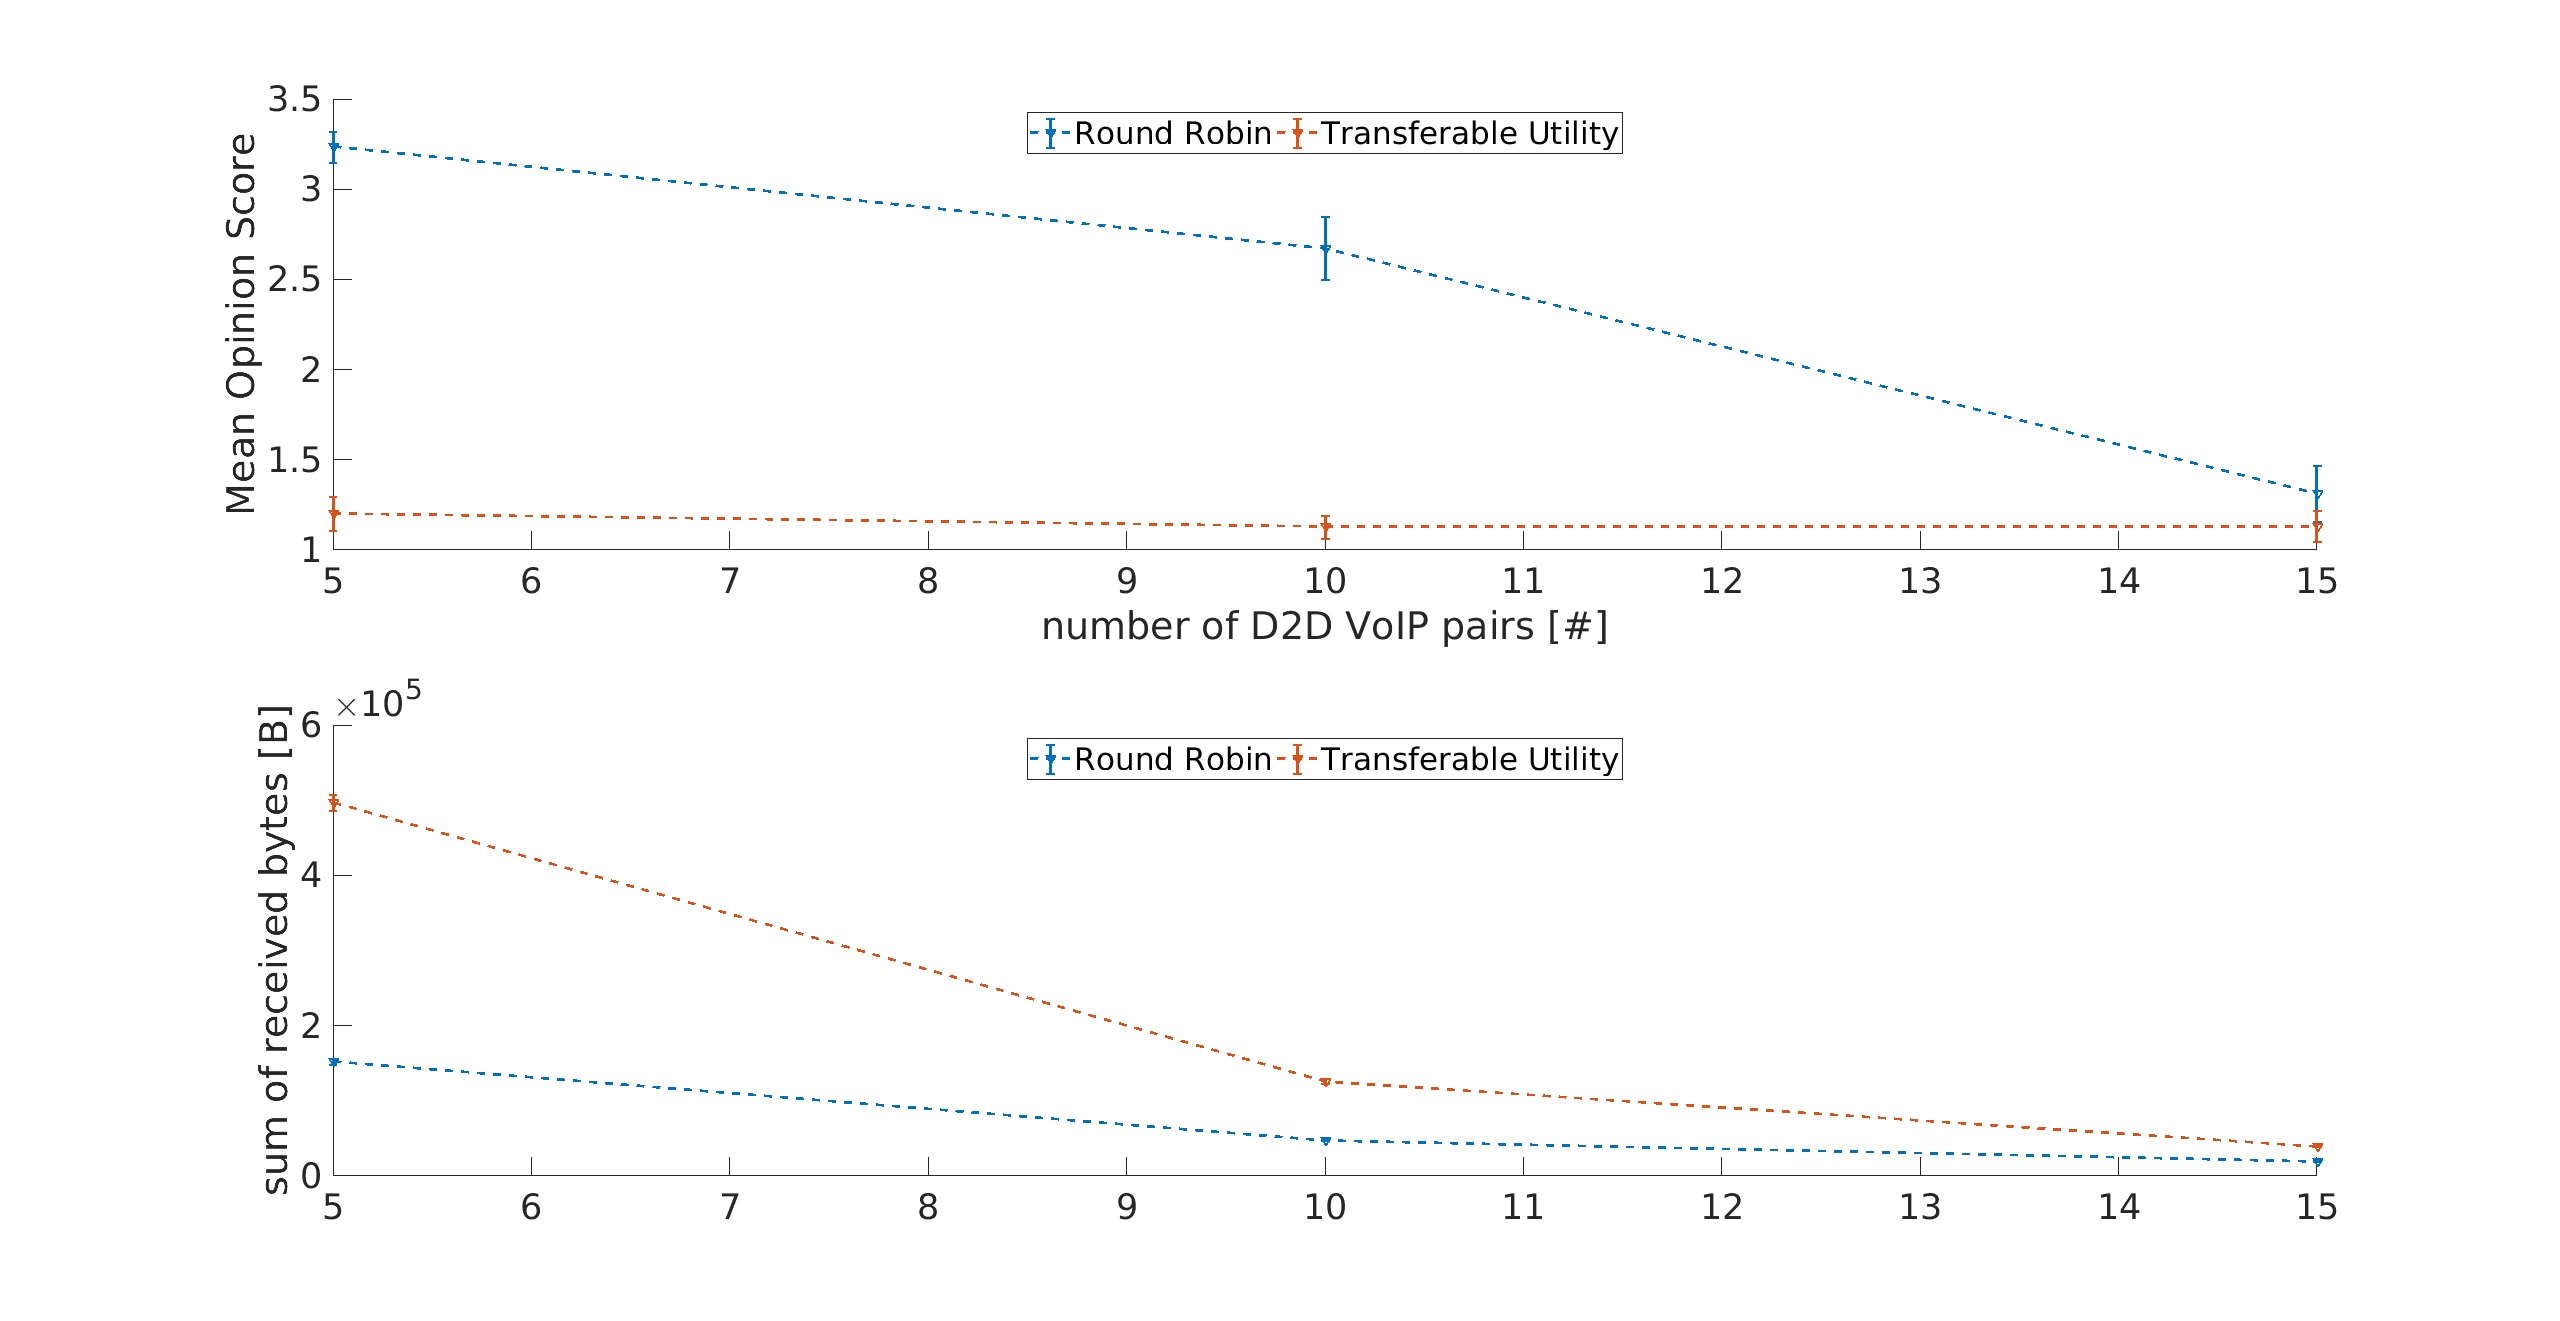
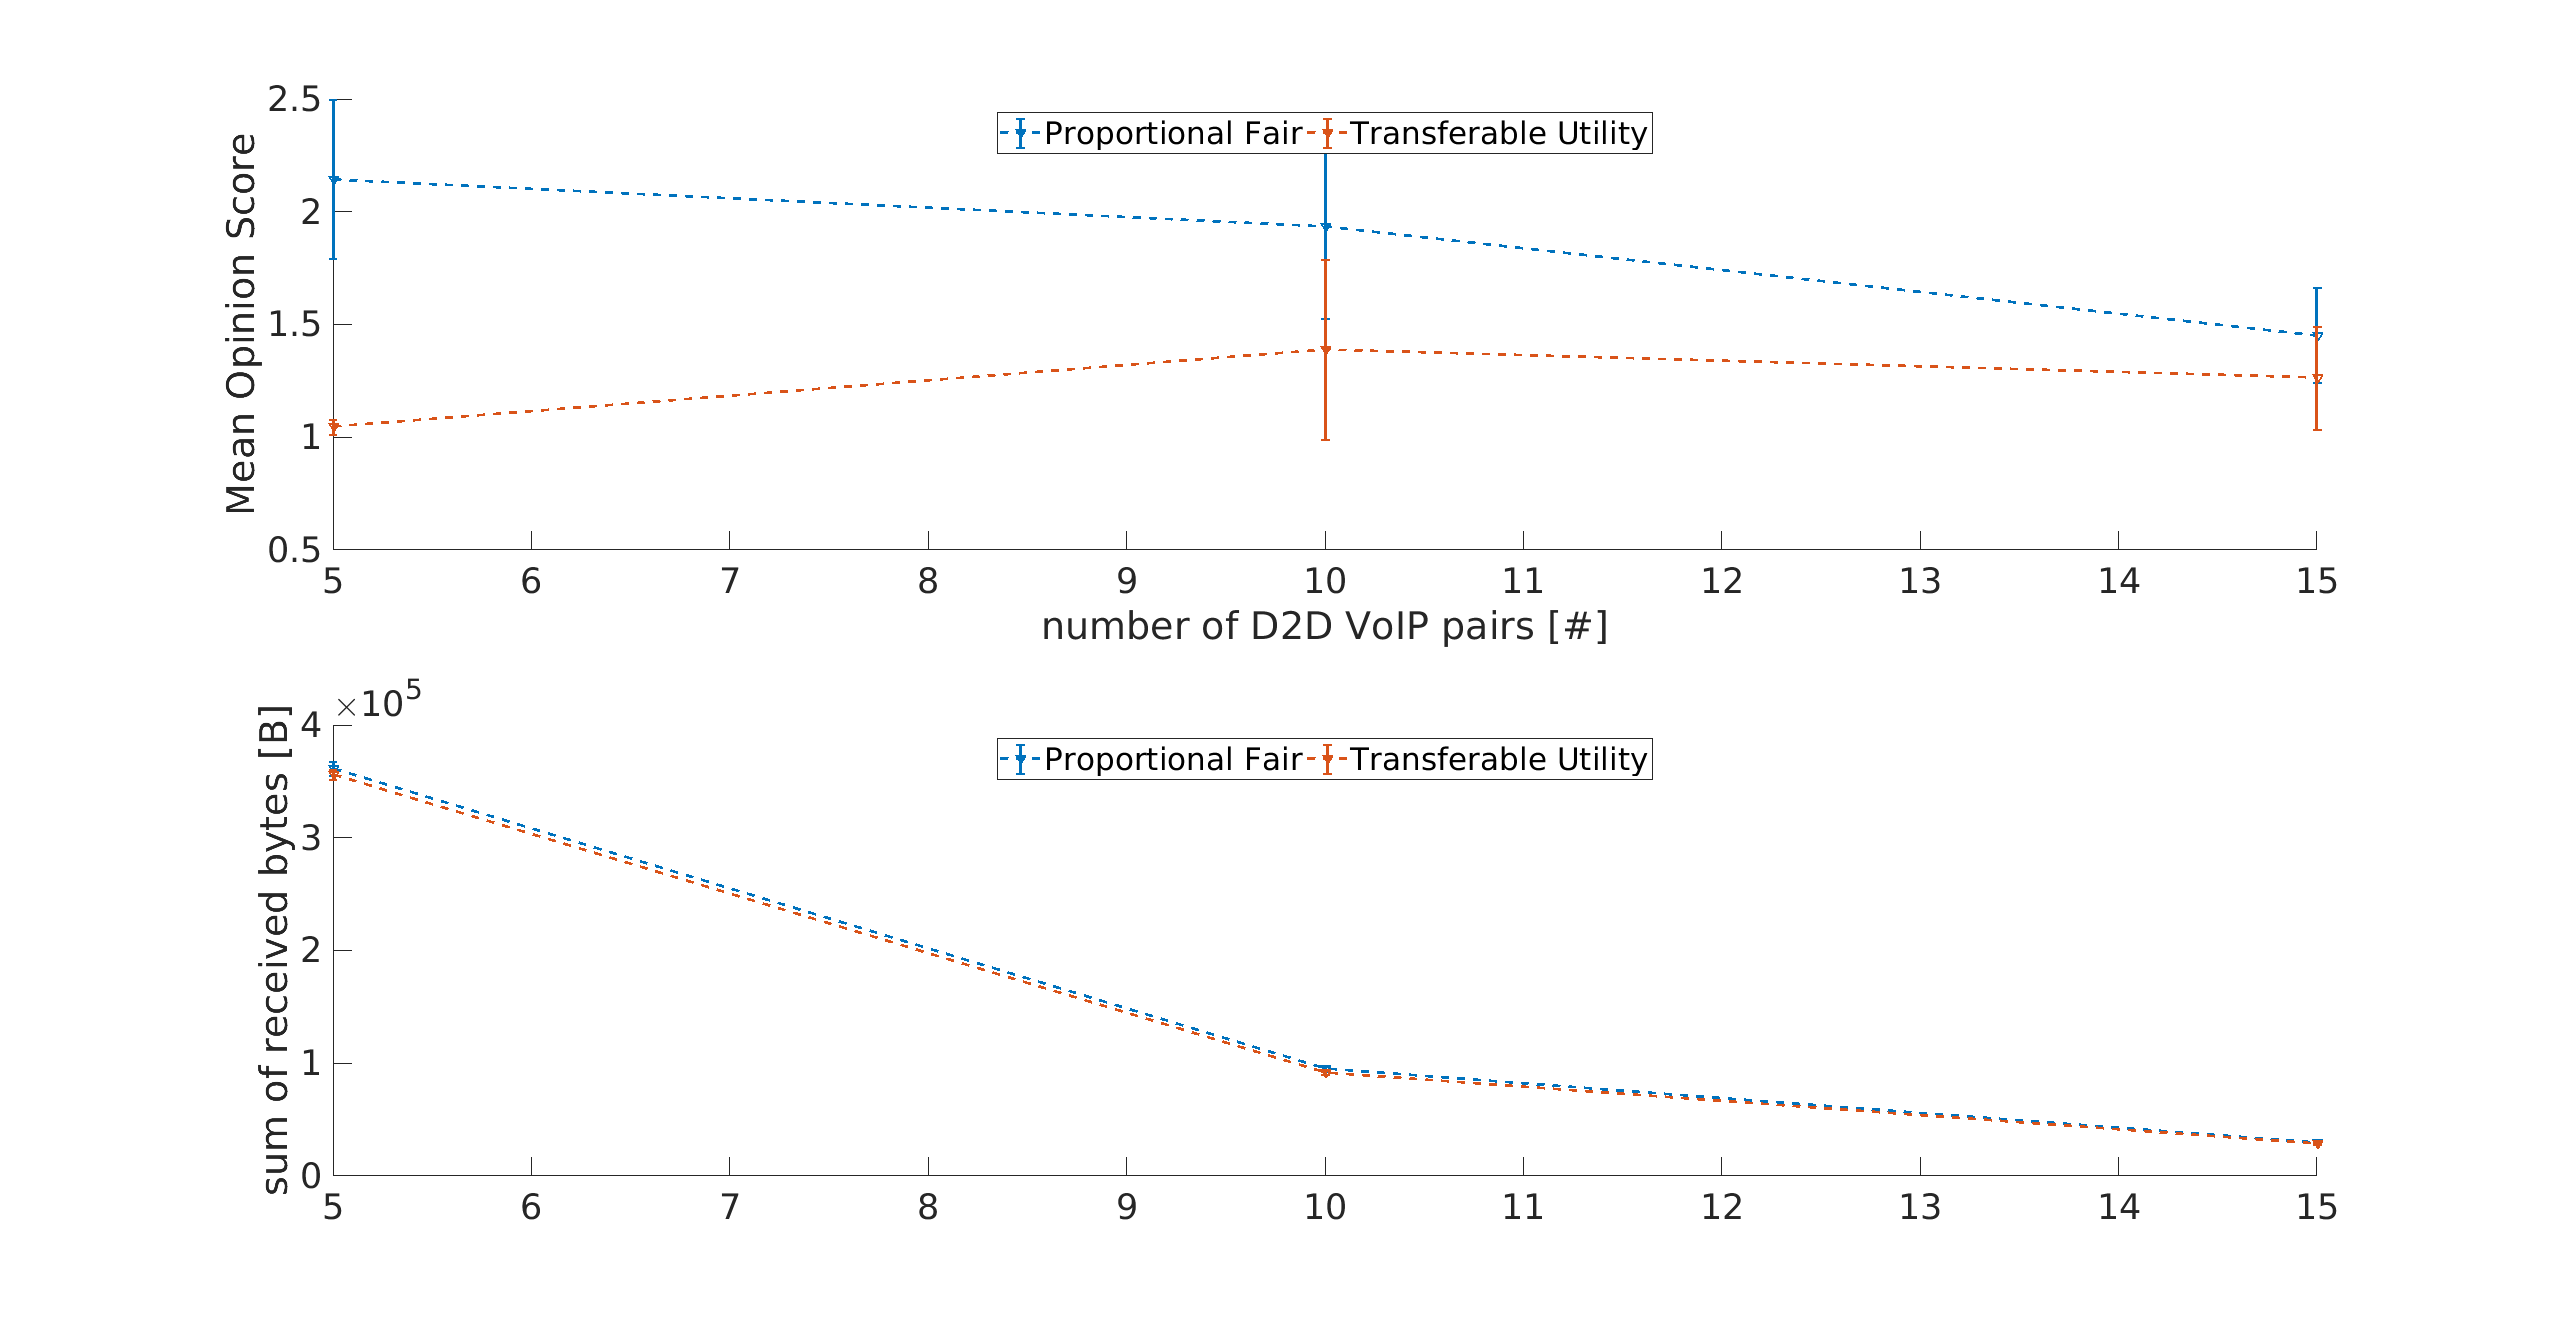
tweaked TUGAME-VoIP-D2D_only for better positions

diff --git a/frequency-reuse/evaluation/plots/analysis_voip_vs_fullbuff_d2d.m b/frequency-reuse/evaluation/plots/analysis_voip_vs_fullbuff_d2d.m
@@ -1,9 +1,9 @@
-reps = 30;
+reps = 10;
 N = 5:5:15;
-filenamesRR_MOS = {};
-filenamesRR_FULBUF = {};
-% filenamesPF_MOS = {};
-% filenamesPF_FULBUF = {};
+% filenamesRR_MOS = {};
+% filenamesRR_FULBUF = {};
+filenamesPF_MOS = {};
+filenamesPF_FULBUF = {};
 filenamesTU_MOS = {};
 filenamesTU_FULBUF = {};
 
@@ -12,46 +12,44 @@ for i=1:size(N, 2)
         n = N(i);
         filenamesTU_MOS(i, (rep+1)) = {strcat('../../results/TUGAME-VoIP-D2D_only/', 'n', int2str(n), '_rep', int2str(rep), '.sca.voip')};                           
         filenamesTU_FULBUF(i, (rep+1)) = {strcat('../../results/TUGAME-VoIP-D2D_only/', 'n', int2str(n), '_rep', int2str(rep), '.sca.fulbuf')};   
-        filenamesRR_MOS(i, (rep+1)) = {strcat('../../results/TUGAME-VoIP-D2D_only-RR/', 'n', int2str(n), '_rep', int2str(rep), '.sca.voip')};   
-        filenamesRR_FULBUF(i, (rep+1)) = {strcat('../../results/TUGAME-VoIP-D2D_only-RR/', 'n', int2str(n), '_rep', int2str(rep), '.sca.fulbuf')};   
-%         filenamesPF_MOS(i, (rep+1)) = {strcat('../../results/TUGAME-VoIP-D2D_only-PF/', 'n', int2str(n), '_rep', int2str(rep), '.sca.voip')};           
+        filenamesPF_MOS(i, (rep+1)) = {strcat('../../results/TUGAME-VoIP-D2D_only-PF/', 'n', int2str(n), '_rep', int2str(rep), '.sca.voip')};   
+        filenamesPF_FULBUF(i, (rep+1)) = {strcat('../../results/TUGAME-VoIP-D2D_only-PF/', 'n', int2str(n), '_rep', int2str(rep), '.sca.fulbuf')};   
     end
     j = j + 1;
 end
 
-mosMatRR = zeros(size(N, 2), 3);
 mosMatPF = zeros(size(N, 2), 3);
 mosMatTU = zeros(size(N, 2), 3);
 
-throughputMatRR = zeros(size(N, 2), 3);
+throughputMatPF = zeros(size(N, 2), 3);
 throughputMatTU = zeros(size(N, 2), 3);
 
 for n=1:size(N, 2)        
-    [mosMatRR(n, 1), mosMatRR(n, 2), mosMatRR(n, 3)] = getMeanVec(filenamesRR_MOS(n,:));    
-    [throughputMatRR(n, 1), throughputMatRR(n, 2), throughputMatRR(n, 3)] = getMeanVec(filenamesRR_FULBUF(n,:));    
-%     [mosMatPF(n, 1), mosMatPF(n, 2), mosMatPF(n, 3)] = getMeanVec(filenamesPF_MOS(n,:));    
+    [mosMatPF(n, 1), mosMatPF(n, 2), mosMatPF(n, 3)] = getMeanVec(filenamesPF_MOS(n,:));    
     [mosMatTU(n, 1), mosMatTU(n, 2), mosMatTU(n, 3)] = getMeanVec(filenamesTU_MOS(n,:));    
+    
+    [throughputMatPF(n, 1), throughputMatPF(n, 2), throughputMatPF(n, 3)] = getMeanVec(filenamesPF_FULBUF(n,:));        
     [throughputMatTU(n, 1), throughputMatTU(n, 2), throughputMatTU(n, 3)] = getMeanVec(filenamesTU_FULBUF(n,:));    
 end
 
 figure;
 subplot(2,1,1);
 hold on;
-errorbar(N, mosMatRR(:, 1), mosMatRR(:, 2), mosMatRR(:, 3), '--v', 'LineWidth', 2);
+errorbar(N, mosMatPF(:, 1), mosMatPF(:, 2), mosMatPF(:, 3), '--v', 'LineWidth', 2);
 % errorbar(M, mosMatPF(:, 1), mosMatPF(:, 2), mosMatPF(:, 3), '--v', 'LineWidth', 2);
 errorbar(N, mosMatTU(:, 1), mosMatTU(:, 2), mosMatTU(:, 3), '--v', 'LineWidth', 2);
 ylabel('Mean Opinion Score');
 xlabel('number of D2D VoIP pairs [#]');
-legend({'Round Robin', 'Transferable Utility'}, 'Location','north','Orientation','horizontal');
+legend({'Proportional Fair', 'Transferable Utility'}, 'Location','north','Orientation','horizontal');
 set(gca,'FontSize', 26);
 
 subplot(2,1,2);
 hold on;
-errorbar(N, throughputMatRR(:, 1), throughputMatRR(:, 2), throughputMatRR(:, 3), '--v', 'LineWidth', 2);
+errorbar(N, throughputMatPF(:, 1), throughputMatPF(:, 2), throughputMatPF(:, 3), '--v', 'LineWidth', 2);
 % errorbar(M, mosMatPF(:, 1), mosMatPF(:, 2), mosMatPF(:, 3), '--v', 'LineWidth', 2);
 errorbar(N, throughputMatTU(:, 1), throughputMatTU(:, 2), throughputMatTU(:, 3), '--v', 'LineWidth', 2);
 
 ylabel('sum of received bytes [B]');
-legend({'Round Robin', 'Transferable Utility'}, 'Location','north','Orientation','horizontal');
+legend({'Proportional Fair', 'Transferable Utility'}, 'Location','north','Orientation','horizontal');
 set(gca,'FontSize', 26);
 hold off;

diff --git a/frequency-reuse/evaluation/plots/analysis_throughput_d2d_vs_cell.m b/frequency-reuse/evaluation/plots/analysis_throughput_d2d_vs_cell.m
@@ -1,0 +1,25 @@
+reps = 30;
+N = 5:5:15;
+filenamesD2D = {};
+filenamesCell = {};
+
+for rep=0:(reps - 1)                                
+    filenamesD2D(rep+1) = {strcat('../../results/throughput_d2d_cell/', 'rep', int2str(rep), '.sca.fulbufd2d')};   
+    filenamesCell(rep+1) = {strcat('../../results/throughput_d2d_cell/', 'rep', int2str(rep), '.sca.fulbufcell')};   
+end    
+
+throughputMatD2D = zeros(1, 3);
+throughputMatCell = zeros(1, 3);
+ 
+[throughputMatD2D(n, 1), throughputMatD2D(n, 2), throughputMatD2D(n, 3)] = getMeanVec(filenamesD2D(:));    
+[throughputMatCell(n, 1), throughputMatCell(n, 2), throughputMatCell(n, 3)] = getMeanVec(filenamesCell(:));    
+
+figure;
+% subplot(2,1,1);
+hold on;
+errorbar(1:2, [throughputMatD2D(1, 1) throughputMatCell(1, 1)], [throughputMatD2D(1, 2) throughputMatCell(1 ,2)], [throughputMatD2D(1, 3) throughputMatCell(1, 3)], '--v', 'LineWidth', 2);
+ylabel('sum of received bytes [B]');
+% xlabel('number of D2D VoIP pairs [#]');
+% legend({'Round Robin', 'Transferable Utility'}, 'Location','north','Orientation','horizontal');
+set(gca,'FontSize', 26);
+hold off;
